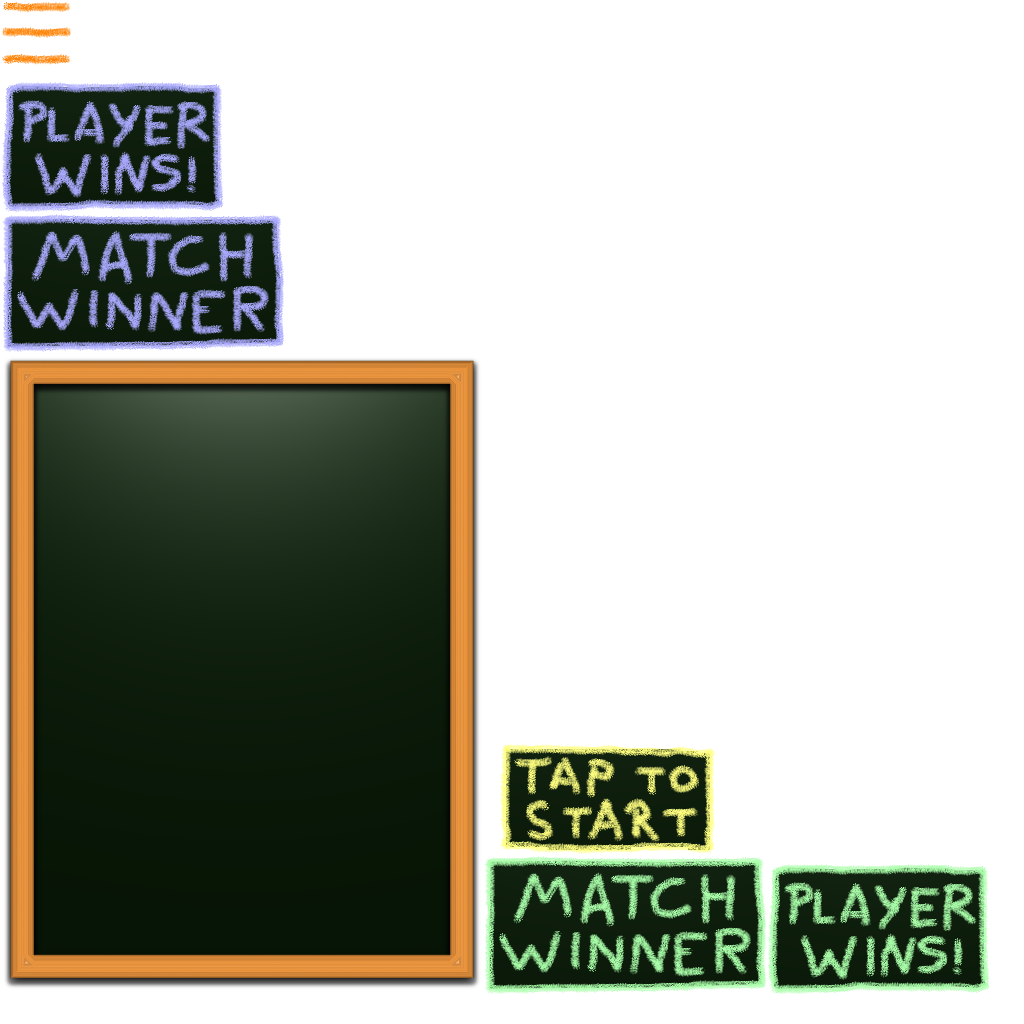
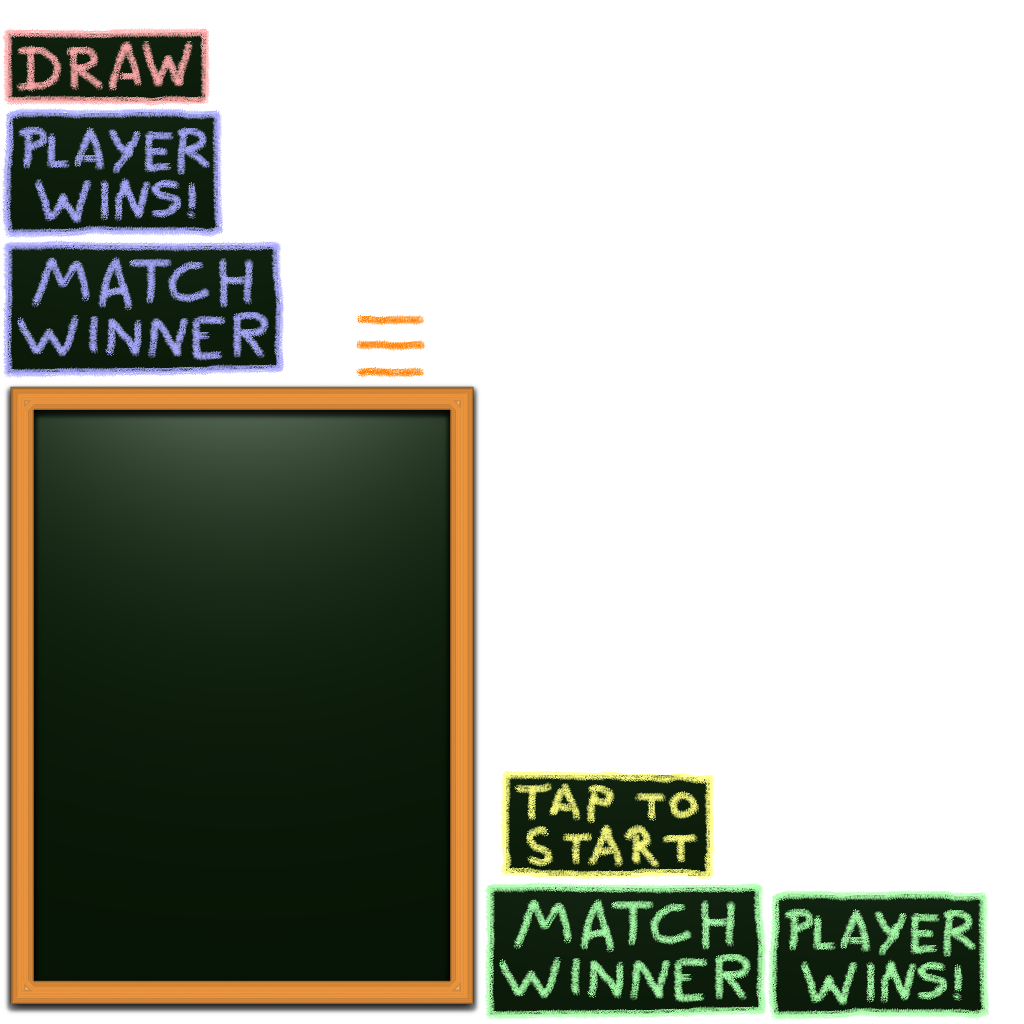
Melhorando a notificação de rodadas do jogo.

Changed region(s): [[0.0, 0.7188, 0.9688, 1.0], [0.0, 0.0, 0.4688, 0.4062]]

diff --git a/core/src/com/gmail/emersonmx/tictactoe/view/GameView.java b/core/src/com/gmail/emersonmx/tictactoe/view/GameView.java
@@ -37,6 +37,13 @@ public class GameView extends AbstractView implements GameListener {
     public static final Color PLAYER_1_COLOR = new Color(0xaaaaffff);
     public static final Color PLAYER_2_COLOR = new Color(0xaaffaaff);
 
+    public static final int NO_PAUSE_TAP = -1;
+    public static final int TAP_TO_START = 0;
+    public static final int TAP_PLAYER_1_WINS = 1;
+    public static final int TAP_PLAYER_2_WINS = 2;
+    public static final int TAP_DRAW = 3;
+    public static final int TAP_WINDOW_LIST_SIZE = 4;
+
     private TextureAtlas atlas;
     private Batch batch;
 
@@ -49,7 +56,7 @@ public class GameView extends AbstractView implements GameListener {
     private Array<Sprite> playerOneScore;
     private Array<Sprite> playerTwoScore;
     private Sprite turn;
-    private Sprite tapToStart;
+    private Sprite[] tapWindowList;
 
     private GameInput input;
 
@@ -61,6 +68,7 @@ public class GameView extends AbstractView implements GameListener {
     private GridPoint2[] playerTurnLayout;
 
     private boolean pauseToStart;
+    private int pauseTap;
 
     public GameView(ViewManager viewManager) {
         super(viewManager);
@@ -76,6 +84,7 @@ public class GameView extends AbstractView implements GameListener {
         scores = new int[] { 0, 0 };
 
         pauseToStart = true;
+        pauseTap = NO_PAUSE_TAP;
     }
 
     public void setPauseToStart(boolean tapToStart) {
@@ -84,6 +93,14 @@ public class GameView extends AbstractView implements GameListener {
 
     public boolean isPauseToStart() {
         return pauseToStart;
+    }
+
+    public void setPauseTap(int pauseTap) {
+        this.pauseTap = pauseTap;
+    }
+
+    public int getPauseTap() {
+        return pauseTap;
     }
 
     @Override
@@ -99,7 +116,7 @@ public class GameView extends AbstractView implements GameListener {
         playerTwoScore = createPlayerTwoScore();
         turn = createPlayerTurn();
         playerTurnLayout = createPlayerTurnLayout();
-        tapToStart = createTapToStart();
+        tapWindowList = createTapWindowList();
 
         loaded = true;
     }
@@ -231,12 +248,19 @@ public class GameView extends AbstractView implements GameListener {
         };
     }
 
-    public Sprite createTapToStart() {
-        Sprite sprite = atlas.createSprite("tap_to_start");
-        sprite.setCenter(ViewManager.WINDOW_WIDTH / 2.f,
-                         ViewManager.WINDOW_HEIGHT / 2.f);
+    public Sprite[] createTapWindowList() {
+        Sprite[] sprites = new Sprite[TAP_WINDOW_LIST_SIZE];
+        sprites[TAP_TO_START] = atlas.createSprite("tap_to_start");
+        sprites[TAP_PLAYER_1_WINS] = atlas.createSprite("player_one_wins");
+        sprites[TAP_PLAYER_2_WINS] = atlas.createSprite("player_two_wins");
+        sprites[TAP_DRAW] = atlas.createSprite("draw");
 
-        return sprite;
+        for (int i = 0; i < sprites.length; ++i) {
+            sprites[i].setCenter(ViewManager.WINDOW_WIDTH / 2.f,
+                                 ViewManager.WINDOW_HEIGHT / 2.f);
+        }
+
+        return sprites;
     }
 
     @Override
@@ -296,8 +320,25 @@ public class GameView extends AbstractView implements GameListener {
         turn.setCenter(point.x, point.y);
         turn.draw(batch);
 
-        if (pauseToStart) {
-            tapToStart.draw(batch);
+        if (pauseTap != NO_PAUSE_TAP) {
+            Sprite window;
+            switch (pauseTap) {
+                case TAP_PLAYER_1_WINS:
+                    window = tapWindowList[TAP_PLAYER_1_WINS];
+                    break;
+                case TAP_PLAYER_2_WINS:
+                    window = tapWindowList[TAP_PLAYER_2_WINS];
+                    break;
+                case TAP_DRAW:
+                    window = tapWindowList[TAP_DRAW];
+                    break;
+                case TAP_TO_START:
+                default:
+                    window = tapWindowList[TAP_TO_START];
+                    break;
+            }
+
+            window.draw(batch);
         }
     }
 
@@ -312,6 +353,7 @@ public class GameView extends AbstractView implements GameListener {
         copyBoard(game);
         copyScore(game);
         players = game.getPlayers();
+        pauseTap = TAP_TO_START;
     }
 
     @Override
@@ -335,12 +377,17 @@ public class GameView extends AbstractView implements GameListener {
     public void gameWinner(GameEvent event) {
         Game game = (Game) event.getSource();
         copyScore(game);
-        pauseToStart = true;
+        if (game.getWinner() == Player.PLAYER_1) {
+            pauseTap = TAP_PLAYER_1_WINS;
+        } else if (game.getWinner() == Player.PLAYER_2) {
+            pauseTap = TAP_PLAYER_2_WINS;
+        }
     }
 
     @Override
     public void gameDraw(GameEvent event) {
         System.out.println("Game Draw");
+        pauseTap = TAP_DRAW;
     }
 
     @Override

diff --git a/core/src/com/gmail/emersonmx/tictactoe/model/Game.java b/core/src/com/gmail/emersonmx/tictactoe/model/Game.java
@@ -29,7 +29,7 @@ public class Game {
     private static final int WINNER_O = -3;
     private static final int WINNER_X = 3;
 
-    public static final int DEFAULT_MATCH = 3;
+    public static final int DEFAULT_MATCH = 5;
 
     private Player currentPlayer;
     private Player[] players;
@@ -109,6 +109,7 @@ public class Game {
                     checkMatchWinner();
                 } else if (markCount == (BOARD_WIDTH * BOARD_HEIGHT)) {
                     winner = Player.PLAYER_NONE;
+                    fireGameDraw();
                     checkMatchWinner();
                 } else {
                     changePlayer();

diff --git a/core/src/com/gmail/emersonmx/tictactoe/view/GameInput.java b/core/src/com/gmail/emersonmx/tictactoe/view/GameInput.java
@@ -85,8 +85,8 @@ public class GameInput extends InputAdapter {
 
     @Override
     public boolean touchUp(int screenX, int screenY, int pointer, int button) {
-        if (gameView.isPauseToStart()) {
-            gameView.setPauseToStart(false);
+        if (gameView.getPauseTap() != GameView.NO_PAUSE_TAP) {
+            gameView.setPauseTap(GameView.NO_PAUSE_TAP);
             gameView.cleanBoard();
             return true;
         }
